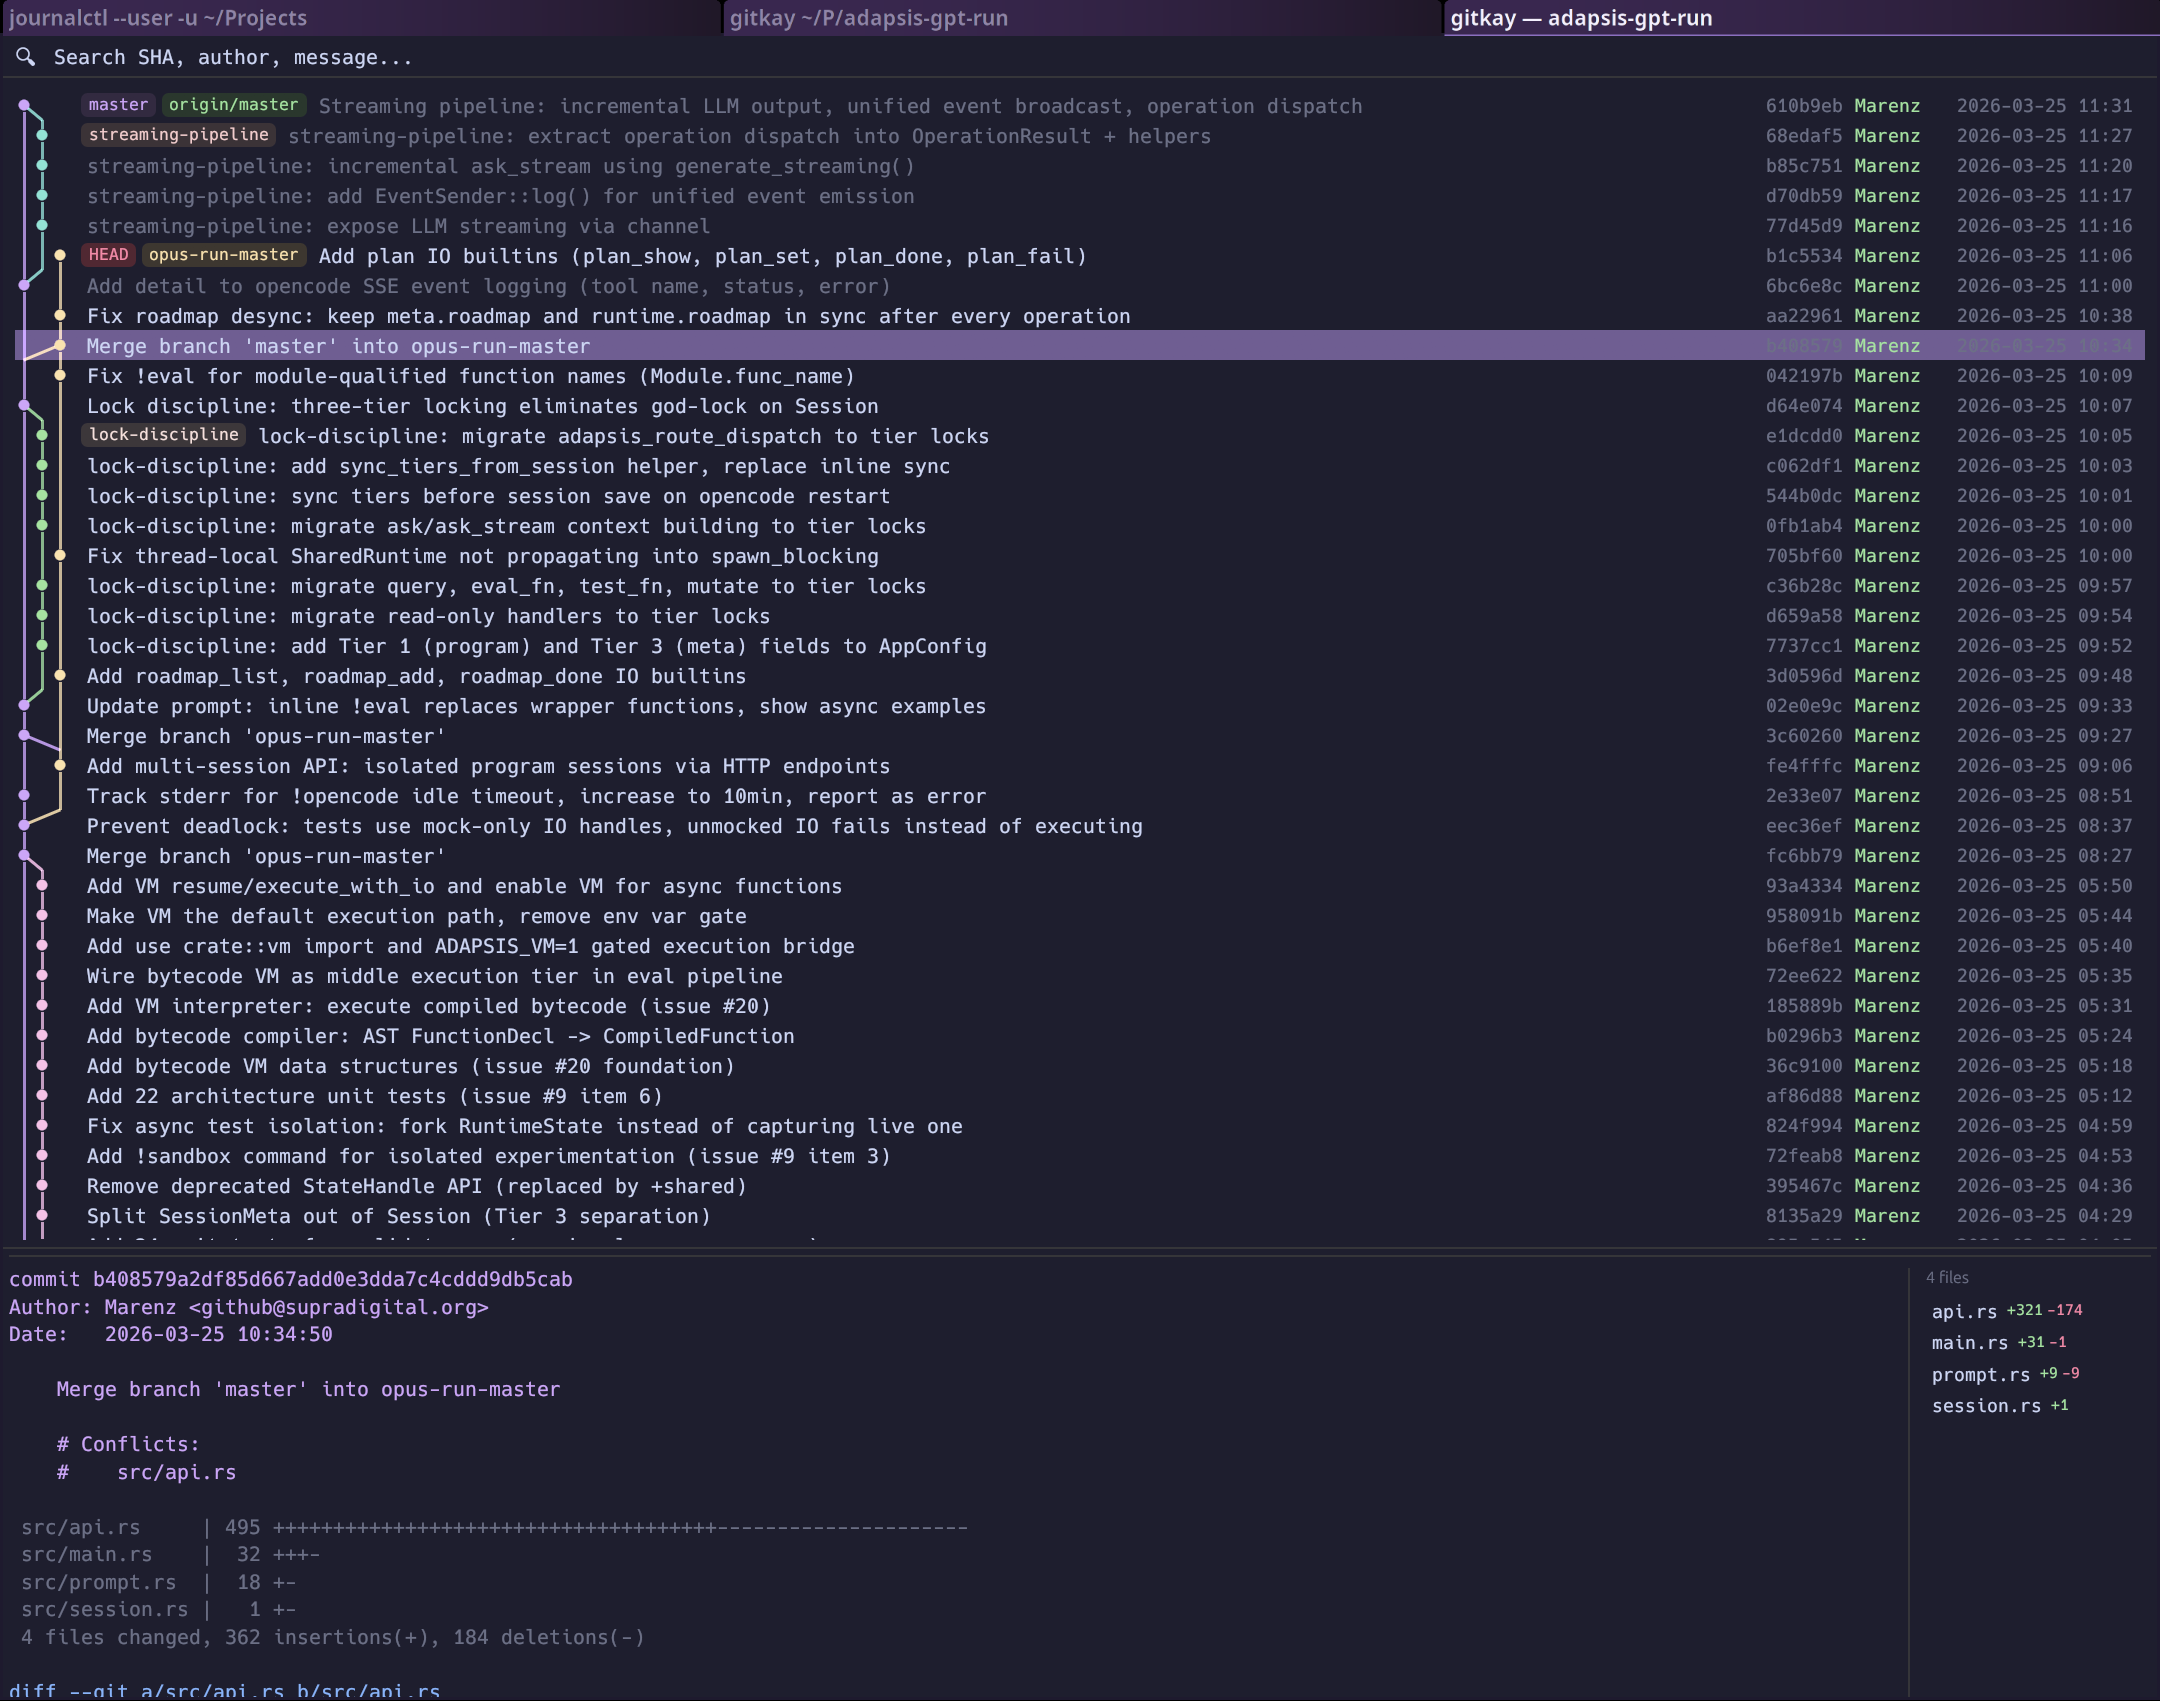
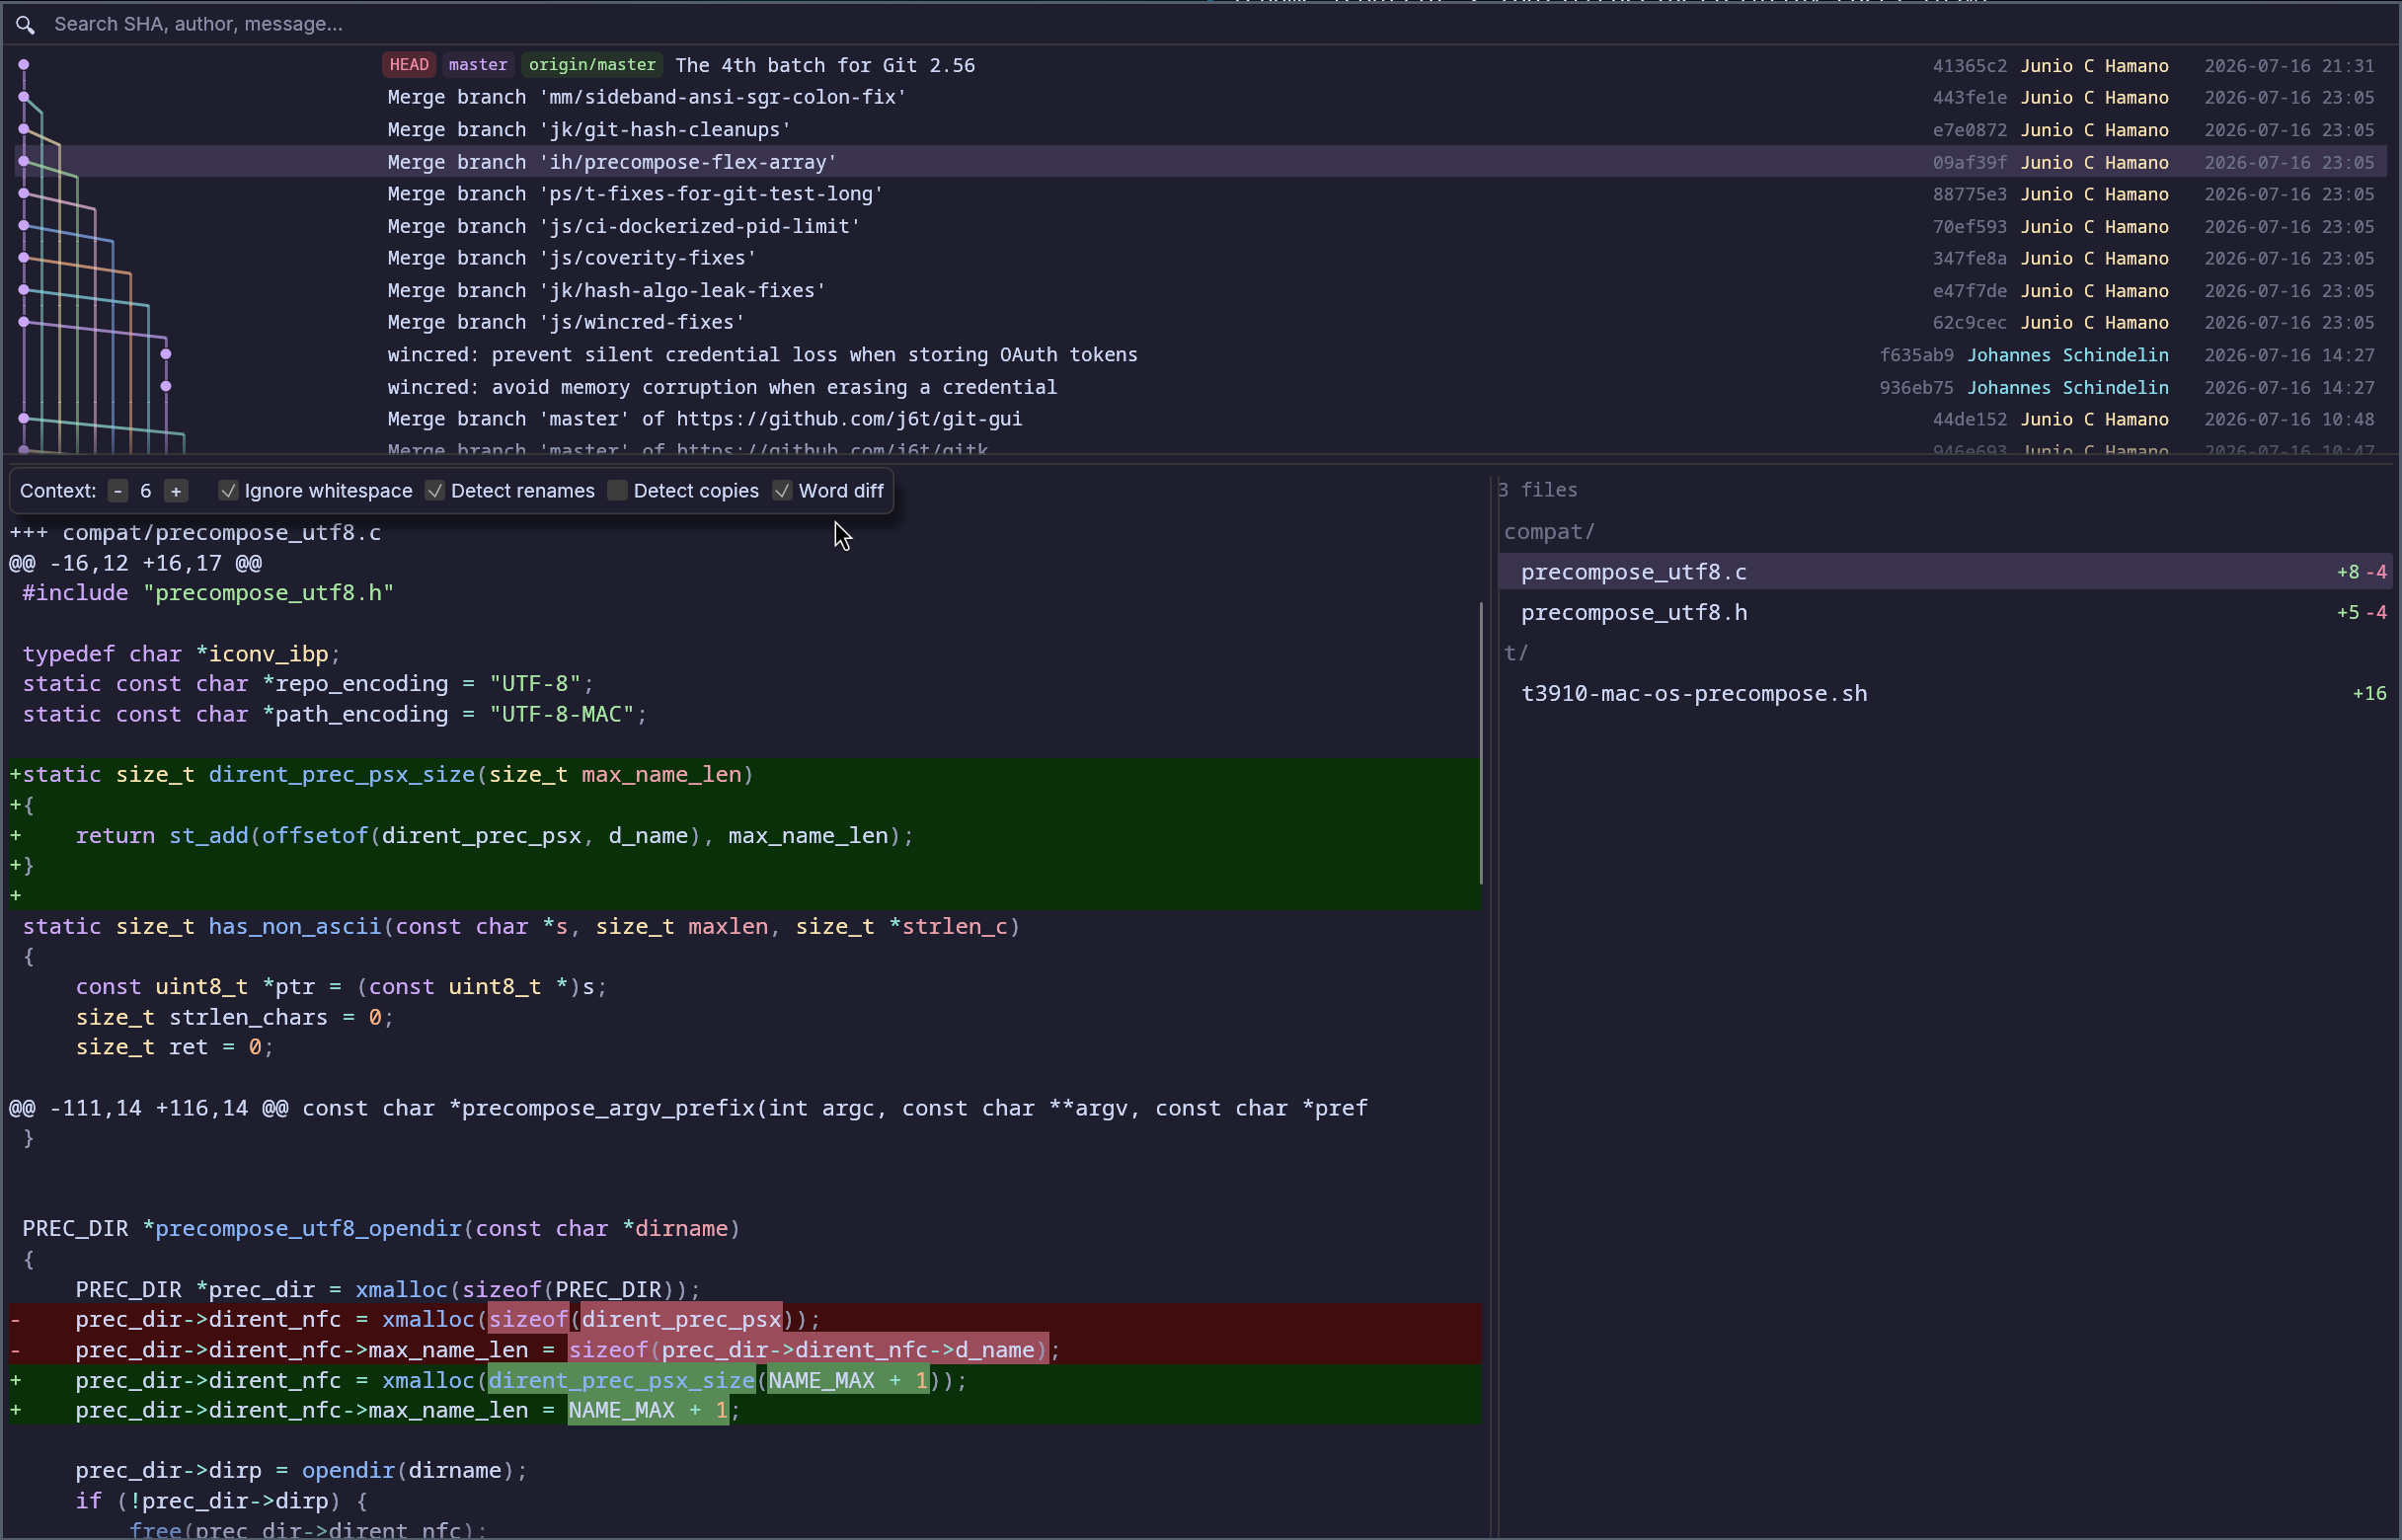
README: refresh screenshot, document missing features, drop drift-prone counts
- Refresh the screenshot to show the current diff toolbar (context
  control, ignore-whitespace, rename/copy detection, word diff).
- Fold in the user-facing features that were only listed in OVERVIEW.md:
  --follow and --reflog usage, the word-diff toggle, the diff hover
  toolbar, git-style rename display, background prioritized highlighting
  with diff cache + neighbour prefetch, the .git watcher live reload,
  virtual uncommitted/staged rows, and layout persistence. Then delete
  OVERVIEW.md — a dated branch-vs-upstream inventory (2026-06-23) whose
  remaining content was internal history with no README value.
- Drop the line/test counts from the architecture blurb; they drift with
  every change and the module list carries the information.

diff --git a/README.md b/README.md
@@ -48,6 +48,10 @@
 - True syntax-highlighted diffs (syntect): language-aware token colors over the chosen theme's background, with green/red row tints and a +/- gutter for additions/deletions
 - Selectable color theme via `[diff] theme` in the config (any of 29 bundled themes — a curated allowlist; default Catppuccin Mocha), applied live on save; or turn highlighting off for the original flat per-line coloring
 - File list sidebar with per-file `+/-` stats, grouped under directory headers by default (`[diff] file_list` = `grouped`/`full`/`name`)
+- Renamed/copied files shown git-style — one `dir/{old ⇒ new}` entry instead of a delete + add pair
+- **Word diff** toggle — highlights the exact words that changed within a modified line
+- Hover toolbar on the diff: context-line count, ignore whitespace, rename/copy detection, word diff
+- Highlighting runs in the background, on-screen files first — large diffs never block the UI; diffs are cached and the neighbouring commits prefetched, so stepping through history is instant
 - Click a file to jump to its diff section
 - Commit header with author, date, full message
 
@@ -60,6 +64,9 @@
 
 ### Quality of Life
 - **Click a commit** to copy its SHA to both clipboard and primary selection
+- **Uncommitted / staged rows** — working-tree and index changes appear as virtual rows at the top when viewing the checked-out branch
+- **Live view** — `.git` (refs, HEAD, index) is watched, so the graph reloads itself after a commit, fetch, or rebase
+- **Persistent layout** — window size/position and the panel splitters survive restarts
 - **Auto-select** first commit on startup with diff shown
 - **Lazy loading** — starts with 200 commits, loads more as you scroll
 - **Unique author colors** — each contributor gets a distinct color
@@ -143,6 +150,12 @@ gitkay -C /path/to/repo
 gitkay --all
 gitkay v1.0..main
 gitkay -- src/
+
+# Follow one file through renames, like git log --follow -p
+gitkay --follow src/main.rs
+
+# Browse a ref's reflog
+gitkay --reflog
 ```
 
 ### Controls
@@ -161,10 +174,10 @@ gitkay -- src/
 
 ## Architecture
 
-Rust app (~7200 lines in `src/main.rs`, plus `src/config.rs` for fonts + syntax
-config, `src/highlight.rs` for syntect highlighting, `src/diff_cache.rs` for the
+Rust app (`src/main.rs`, plus `src/config.rs` for fonts + syntax config,
+`src/highlight.rs` for syntect highlighting, `src/diff_cache.rs` for the
 line-budget LRU diff cache, `src/cli.rs` for argument parsing, and
-`src/word_diff.rs` for intra-line word diffing) with 163 unit tests:
+`src/word_diff.rs` for intra-line word diffing):
 
 - **egui** + **eframe** — native Wayland window with OpenGL (glow) rendering
 - **git2** (libgit2) — repository access, revwalk, diff